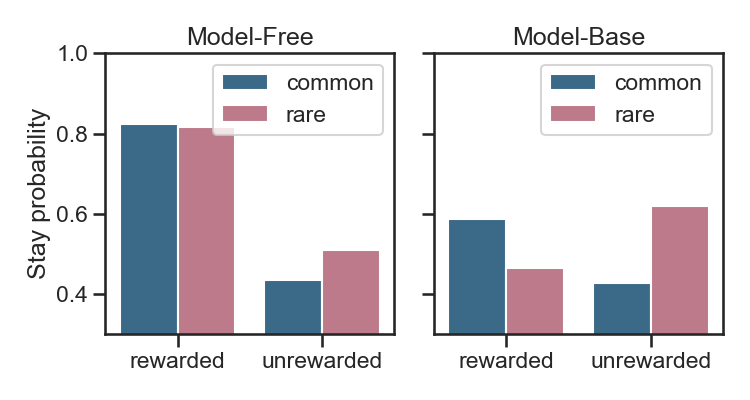
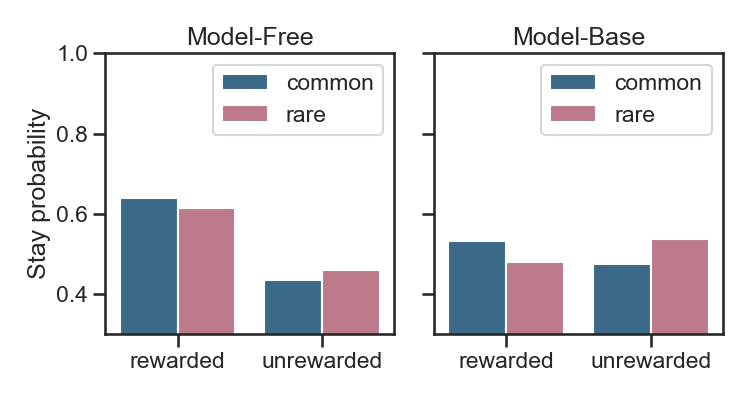
update the sim to match the data

diff --git a/main.py b/main.py
@@ -14,6 +14,29 @@ viz.get_style()
 pth = os.path.dirname(os.path.abspath(__file__))
 
 # ----------------------------------- #
+#             Preprocess              #
+# ----------------------------------- #
+
+def preprocess(data):
+    '''Preprocess the data
+    '''
+
+    col_dict = {
+        'action 1':   'act0',
+        'action 2':   'act1',
+        'reward.1.1': 'rew10',
+        'reward.1.2': 'rew11',
+        'reward.2.1': 'rew20',
+        'reward.2.2': 'rew21',
+        'final_state': 'state1',
+    }
+
+    # rename  
+    data.rename(columns=col_dict, inplace=True)
+
+    return data 
+
+# ----------------------------------- #
 #              The task               #
 # ----------------------------------- #
 
@@ -163,7 +186,7 @@ class twoStageTask:
 class simpleBuffer:
 
     def __init__(self):
-        self.keys = ['s1', 'a1', 'r1', 's2', 'a2', 'r2']
+        self.keys = ['s0', 'a0', 'r0', 's1', 'a1', 'r1']
         self.reset()
 
     def push(self, m_dict):
@@ -237,6 +260,15 @@ class SARSA(baseAgent):
         prob  = softmax(beta*logit)
         act   = rng.choice(self.nA, p=prob)
         return act, prob
+    
+    def eval_act(self, s, a, stage):
+        '''Evaluate the probability of given state and action
+        '''
+        beta  = eval(f'self.beta{int(stage+1)}')
+        repa  = self.prev_a * (stage==0)
+        logit = self.Q_td[s, :] + self.p*repa
+        prob  = softmax(beta*logit)
+        return prob[a]
 
     # ------------ Learning ------------- # 
         
@@ -247,15 +279,15 @@ class SARSA(baseAgent):
         '''Model-free update'''
 
         # achieve data
-        s1, a1, r1, s2, a2, r2 = self.mem.sample(
-            's1', 'a1', 'r1', 's2', 'a2', 'r2')
+        s0, a0, r0, s1, a1, r1 = self.mem.sample(
+            's0', 'a0', 'r0', 's1', 'a1', 'r1')
         
         # stage 2  
-        rpe2 = r2 - self.Q_td[s2, a2]
-        self.Q_td[s2, a2] += self.alpha2 * rpe2
+        rpe1 = r1 - self.Q_td[s1, a1]
+        self.Q_td[s1, a1] += self.alpha2 * rpe1
         # stage 1 
-        rpe1 = r1 + self.Q_td[s2, a2] - self.Q_td[s1, a1]
-        self.Q_td[s1, a1] += self.alpha1 * (rpe1 + self.lmbd*rpe2)
+        rpe0 = r0 + self.Q_td[s1, a1] - self.Q_td[s0, a0]
+        self.Q_td[s0, a0] += self.alpha1 * (rpe0 + self.lmbd*rpe1)
 
 class ModelBase(SARSA):
     '''Model Base RL'''
@@ -319,62 +351,95 @@ class HybridModel(ModelBase):
 #             Simulation              #
 # ----------------------------------- #
 
-def sim(agent, params, seed):
+def set_trans_fn(nS, nA, rho=.7):
+        '''The transition function
+
+                 s0     s1      s2      
+        s0-a0    0      t       1-t   
+        s0-a1    0      1-t     t  
+
+        s1-a0    1      0       0        
+        s1-a1    1      0       0   
+    
+        s2-a0    1      0       0      
+        s2-a1    1      0       0    
+        '''
+        T = np.zeros([nS, nA, nS])
+        # state == 0 
+        T[0, 0, :] = [0, rho, 1-rho]
+        T[0, 1, :] = [0, 1-rho, rho]
+        # state != 0 
+        T[1:, :, 0] = 1
+        # common state 
+        common_state = 1 if rho > .5 else 2
+        return T, common_state
+
+def sim(datum, agent, params, seed):
+    '''The simulation
+
+    Args:
+        datum: the experimental data, containing the stimuli
+        agent: the model used for simulation
+        params: the params used to run the model
+        seed:  the random seed
+    '''
 
     # decide random seed
     rng = np.random.RandomState(seed)
 
-    # instantiate the task and the model 
-    task = twoStageTask(seed=seed*2)
-    model = agent(task.nS, task.nA, params)
+    # define the transition function
+    nS = 3 # stage 1: s=0, stage 2: s=1, s=2
+    nA = 2 # all state has two options
+    trans_fn, common_state = set_trans_fn(nS, nA)
 
-    # storages
-    cols = ['act', 'prob', 'rew', 'stage', 'trial', 'done', 'common', 'stay']
-    init_mat = np.zeros([task.nT*2, len(cols)]) + np.nan
-    data = pd.DataFrame(init_mat, columns=cols)
-    
-    # the first trial 
-    s, info = task.reset()
-    stage = info['stage']
+    # instantiate the task and the model   
+    model = agent(nS, nA, params)
 
-    for i in range(task.nT*2):
-        
-        # get an action 
-        a, prob = model.get_act(s, stage, rng)
-        # step forward
-        s_next, r, done, info = task.step(a)
-        stage = info['stage']
+    # stotages for the predictive data 
+    cols = ['act1', 'act1',  'reward', 'common', 'state1']
+    data.drop(columns=cols, inplace=True)
+    cols += ['prob0', 'prob1', 'stay']
+    init_mat = np.zeros([datum.shape[0], len(cols)]) + np.nan
+    pred_data = pd.DataFrame(init_mat, columns=cols)
+
+    for i, row in datum.iterrows():
+
+        # construc the rew_fn 
+        p_rew = np.array([
+            [0, 0],
+            [row['rew10'], row['rew11']],
+            [row['rew20'], row['rew21']]])
+
+        # stage 1
+        s0 = 0 # input 
+        a0, prob0 = model.get_act(s0, stage=0, rng=rng) # act
+        r0 = 0 
+
+        # transit to stage 2
+        s1 = rng.choice(nS, p=trans_fn[s0, a0, :])
+        a1, prob1 = model.get_act(s1, stage=1, rng=rng)
+        r1 = (rng.rand() < p_rew[s1, a1])*1
 
         # record vars
-        data.loc[i, 'act']    = a
-        data.loc[i, 'rew']    = r
-        data.loc[i, 'prob']   = prob[a]
-        data.loc[i, 'done']   = done 
-        data.loc[i, 'trial']  = task.t
-        data.loc[i, 'stage']  = stage
-        if stage:
-            data.loc[i, 'rewarded']    = 'rewarded' if r else 'unrewarded'
-            data.loc[i-1, 'rewarded']  = 'rewarded' if r else 'unrewarded'
-        else:
-            data.loc[i, 'common'] = info['common']
-            data.loc[i-2, 'stay'] = prob[model.prev_a.argmax()]
+        pred_data.loc[i, 'act0']   = a0
+        pred_data.loc[i, 'prob0']  = prob0[a0]
+        pred_data.loc[i, 'act1']   = a1
+        pred_data.loc[i, 'prob1']  = prob1[a1]
+        pred_data.loc[i, 'state1'] = s1
+        pred_data.loc[i, 'reward'] = r1
+        pred_data.loc[i, 'common'] = (s1 == common_state)*1
+        pred_data.loc[i-1, 'stay'] = prob0[model.prev_a.argmax()]
             
         # cache info  
-        if stage==0: model.prev_a = np.eye(task.nA)[a] 
-        m = {f's{stage+1}': s, f'a{stage+1}': a, f'r{stage+1}':r}
+        model.prev_a = np.eye(nA)[a0] 
+        m = {f's0': s0, f'a0': a0, f'r0': r0, f's1': s1, f'a1': a1, f'r1': r1}
         model.mem.push(m)
-        # the next state 
-        s = s_next  
 
-        # if is the second stage/end of the trial
-        if done: 
-            # 
-            model.update()     
-            # Supplementary materials: "eligibility traces
-            # does not carry over from trial to trial"
-            model.mem.reset()  
+        # Supplementary materials: "eligibility traces
+        # does not carry over from trial to trial"
+        model.update()    
 
-    return data 
+    return pd.concat([data, pred_data], axis=1) 
 
 def n_sim(agent, params, seed, n=20):
 
@@ -385,7 +450,8 @@ def n_sim(agent, params, seed, n=20):
 def show_sim(seed=2023):
 
     # get data 
-    params = [5.19, 3.69, .54, .42, .57, .11, .39]
+    params = [2.76, 2.69, 0.46, 0.21, 0.41, 0.02, 0.29]
+    #[5.19, 3.69, .54, .42, .57, .11, .39]
 
     MFdata = n_sim(SARSA, params, seed, n=25)
     MBdata = n_sim(ModelBase, params, seed, n=25)
@@ -413,11 +479,14 @@ def show_sim(seed=2023):
             
 if __name__ == '__main__':
 
-    agent = SARSA
-    params = [7.45, 5.16, 0.87, 0.71, 0.94, 0.22, 0.59]
-    #params = [5.19, 3.69, .54, .42, .57, .11, .39]
-    seed, i = 2023, 1
-    data = sim(agent, params, seed+i) 
+    #
+    data = pd.read_excel(f'{pth}/data/sub1.xlsx')
+    processed_data = preprocess(data)
 
-    show_sim(seed=3124)
+    # agent = SARSA
+    params = [7.45, 5.16, 0.87, 0.71, 0.94, 0.22, 0.59]
+    seed, i = 2023, 1
+    data = sim(processed_data, SARSA, params, seed+i) 
+
+    # show_sim(seed=3124)
     
